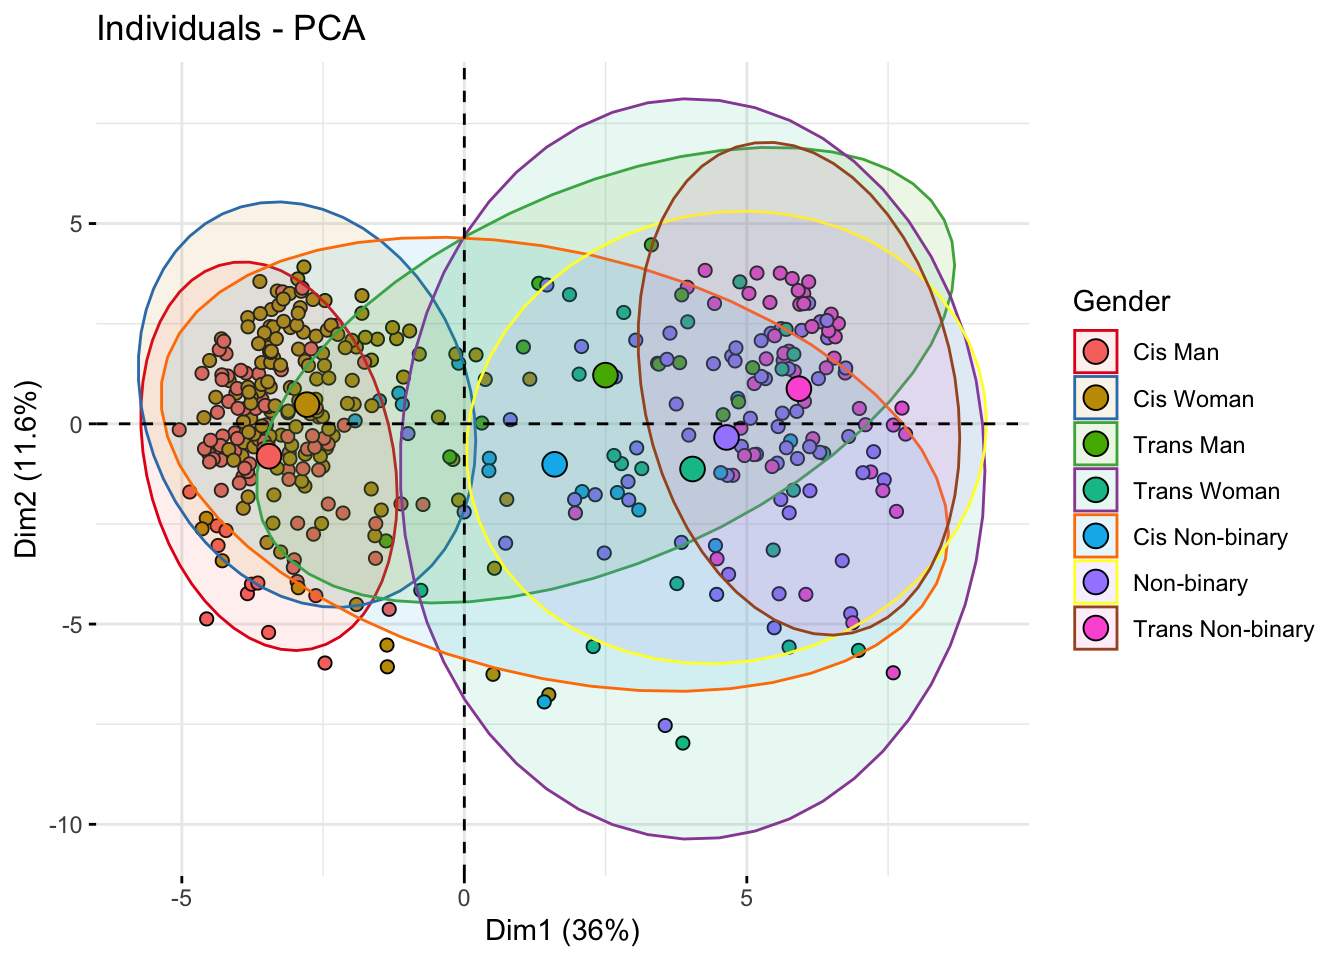
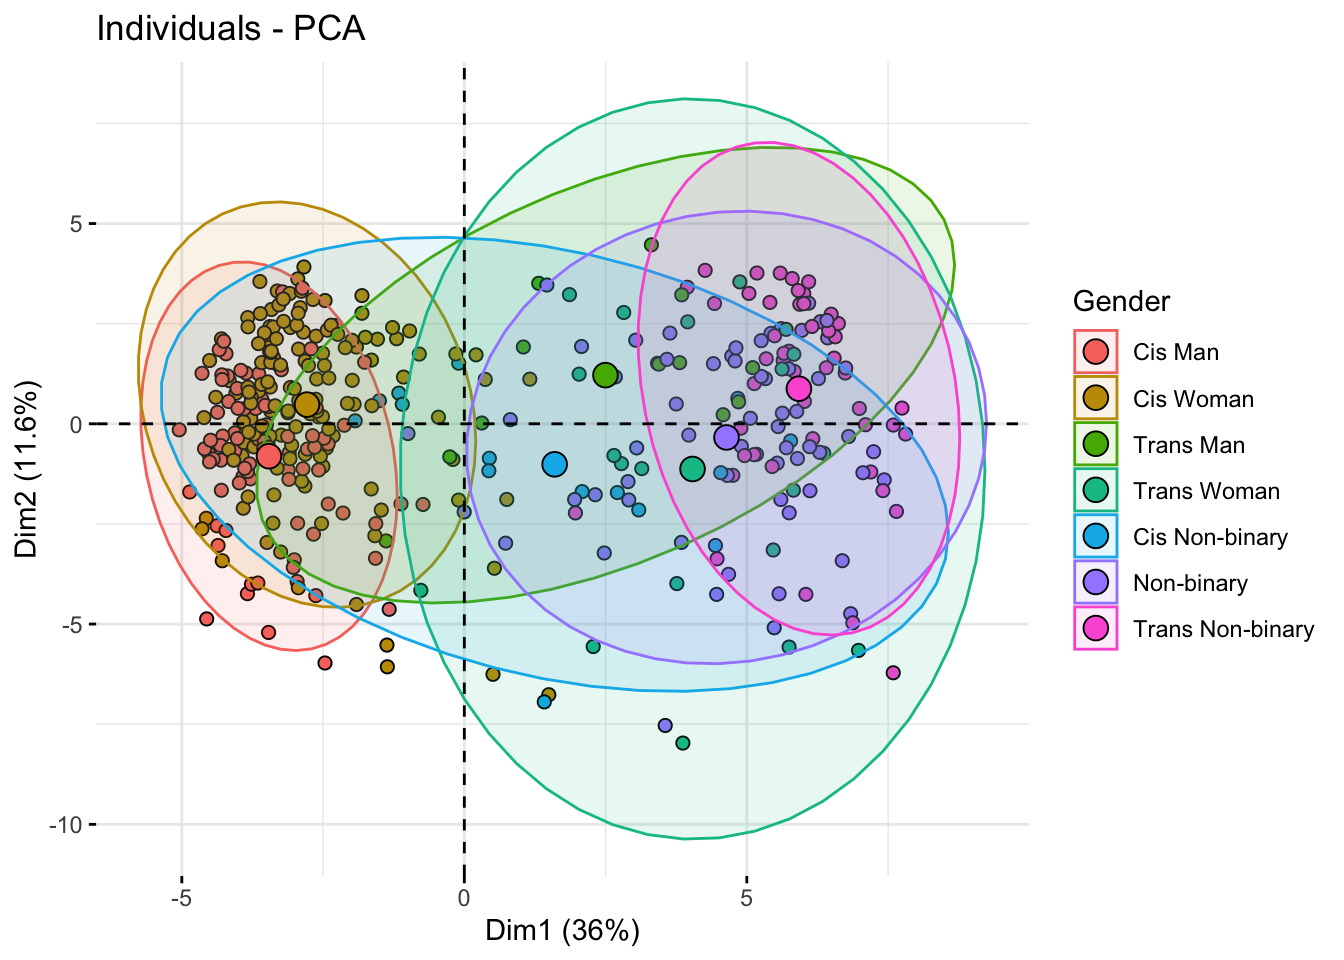
Updates

diff --git a/3-results.html b/3-results.html
@@ -1010,11 +1010,11 @@ misgendering_stigma
 </tr>
 </tbody>
 </table>
-<p>Visualization of the first two components (account for 47.6% of the variation) indicates yielded interesting results. The x-axis represents the first component. Loadings indicate that this component represents one’s feelings of consistency between gender, appearance and pronouns. Negative values along the x-axis likely indicate that one is misgendered less frequently and other people usually correctly assume one’s pronouns. Positive values along the x-axis likely indicate that one is misgendered more frequently and other people usually do not correctly assume one’s pronouns.</p>
+<p>Visualization of the first two components (account for 47.6% of the variation) yielded interesting results. The x-axis represents the first component. Loadings indicate that this component represents one’s feelings of consistency between gender, appearance and pronouns. Negative values along the x-axis likely indicate that one is misgendered less frequently and other people usually correctly assume one’s pronouns. Positive values along the x-axis likely indicate that one is misgendered more frequently and other people usually do not correctly assume one’s pronouns.</p>
 <p>The y-axis represents the second component. Loadings indicate that this component represents one’s desire to share one’s pronouns and, to a smaller extent, concern that doing so will draw attention to oneself. Positive values along the y-axes indicate that one has <em>blah blah blah i need to do more exploratory analysis before this exploratory analysis</em>
 <img src="thesis_files/figure-html/pca_vis-1.png" width="672" style="display: block; margin: auto;" />
-Cisgender men and cisgender women appear very separate from the non-cisgender participants. In this plot, cis men are surrounded surrounded by a red circle to the left of the y-axis. Cis women are surrounded by a blue circle to the left of the y-axis. There is significant overlap between cis men and cis women.</p>
-<p>Notably, there is no overlap between cisgender men and transgender women along the x-axis, indicating that cisgender men and transgender women have very different experiences with the relationship between their gender and appearance, as well as how frequently they are misgendered.</p>
+Cisgender men and cisgender women appear very separate from the non-cisgender participants. In this plot, cis men are surrounded surrounded by a red circle to the left of the y-axis. Cis women are surrounded by an orange circle to the left of the y-axis. There is significant overlap between cis men and cis women.</p>
+<p>Notably, there is no overlap between cisgender men and transgender women (surrounded by a blue-green circle) along the x-axis, indicating that cisgender men and transgender women have very different experiences with the relationship between their gender and appearance, as well as how frequently they are misgendered.</p>
 
 </div>
 </div>

diff --git a/4-results.html b/4-results.html
@@ -1011,7 +1011,7 @@ misgendering_stigma
 </tbody>
 </table>
 <p>Visualization of the first two components (account for 47.6% of the variation) indicates yielded interesting results. The x-axis represents the first component. Loadings indicate that this component represents one’s feelings of consistency between gender, appearance and pronouns. Negative values along the x-axis likely indicate that one is misgendered less frequently and other people usually correctly assume one’s pronouns. Positive values along the x-axis likely indicate that one is misgendered more frequently and other people usually do not correctly assume one’s pronouns.</p>
-<p>The y-axis represents the second component. Loadings indicate that this component represents one’s desire to share one’s pronouns and concern that doing so will draw attention to oneself. Positive values along the y-axes indicate that one has <em>blah blah blah i need to do more exploratory analysis before this exploratory analysis</em>
+<p>The y-axis represents the second component. Loadings indicate that this component represents one’s desire to share one’s pronouns and, to a smaller extent, concern that doing so will draw attention to oneself. Positive values along the y-axes indicate that one has <em>blah blah blah i need to do more exploratory analysis before this exploratory analysis</em>
 <img src="thesis_files/figure-html/pca_vis-1.png" width="672" style="display: block; margin: auto;" />
 Cisgender men and cisgender women appear very separate from the non-cisgender participants. In this plot, cis men are surrounded surrounded by a red circle to the left of the y-axis. Cis women are surrounded by a blue circle to the left of the y-axis. There is significant overlap between cis men and cis women.</p>
 <p>Notably, there is no overlap between cisgender men and transgender women along the x-axis, indicating that cisgender men and transgender women have very different experiences with the relationship between their gender and appearance, as well as how frequently they are misgendered.</p>
